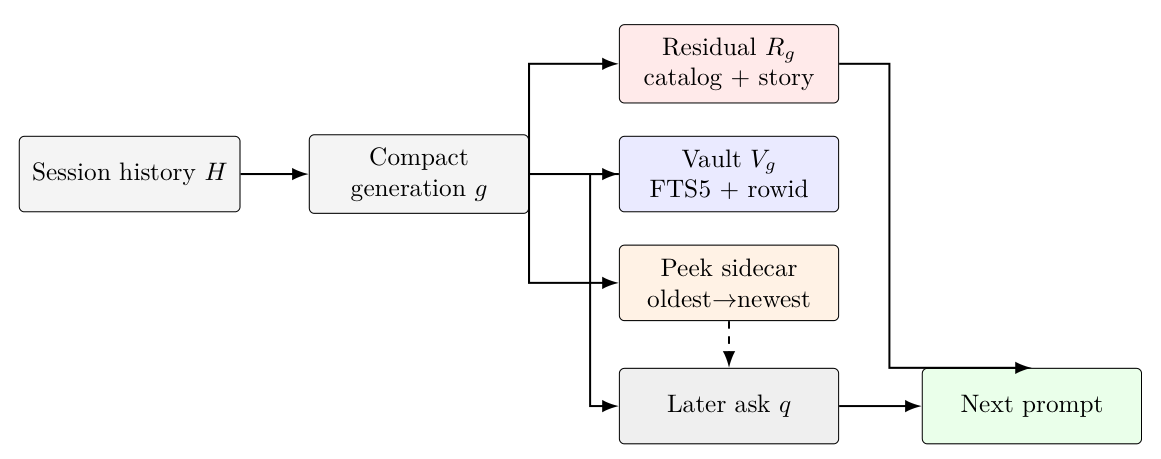
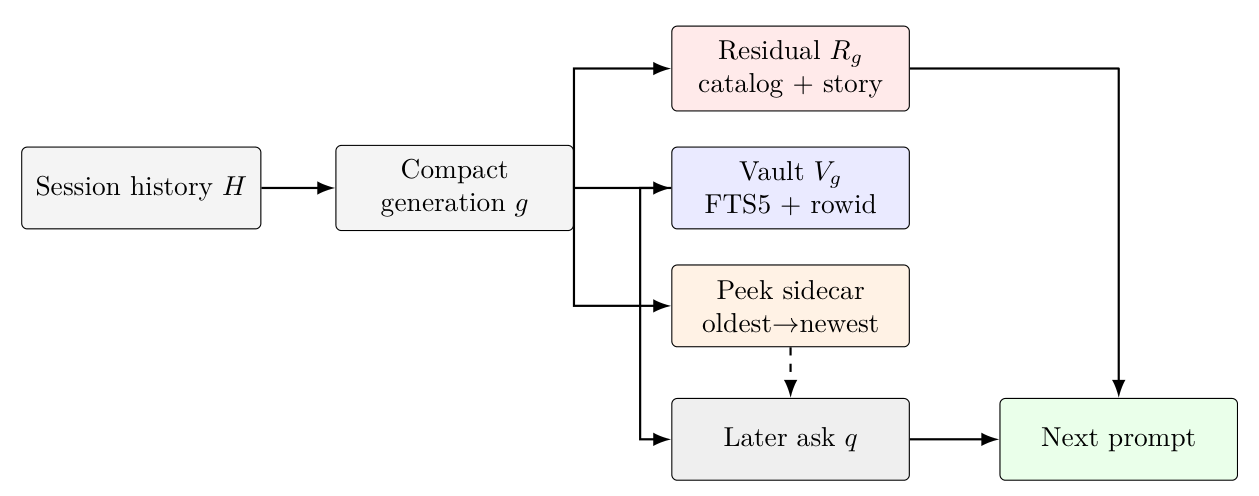
Join the residual arrow into Next prompt as one elbow.
The old vertical-then-across path left a gap over the box; it now runs across and down into the top.

diff --git a/paper/paper.tex b/paper/paper.tex
@@ -227,7 +227,7 @@ Figure~\ref{fig:planes} is that split.
 \draw[arrow] (comp.east) -- (vault.west);
 \draw[arrow] (comp.east) |- (res.west);
 \draw[arrow] (comp.east) |- (peek.west);
-\draw[arrow] (res.east) -- ++(0.7,0) |- (inj.north);
+\draw[arrow, line join=round] (res.east) -| (inj.north);
 \draw[arrow] (vault.west) -- ++(-0.4,0) |- (ask.west);
 \draw[arrow, dashed] (peek.south) -- (ask.north);
 \draw[arrow] (ask) -- (inj);
